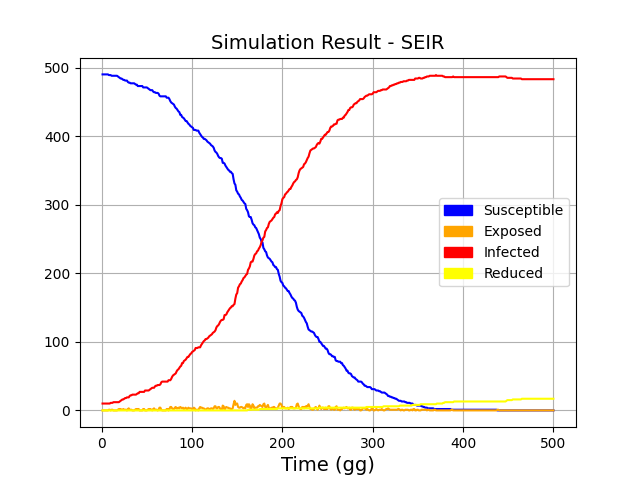
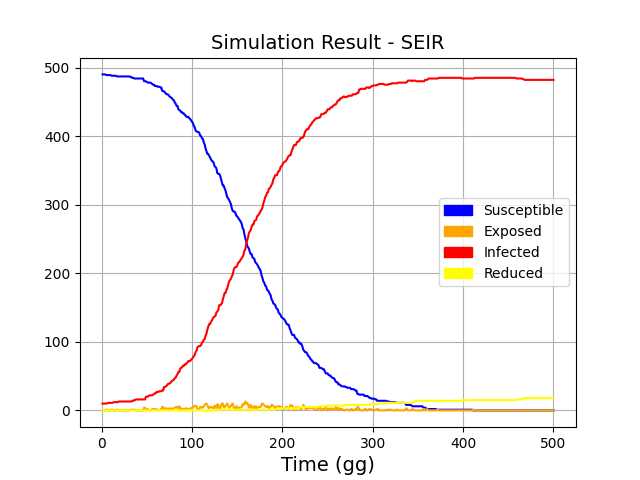
Correzione Errore "Transizione" Simulatore
- Se un nodo passa da S ad I deve poter contagiare i vicini solo allo step successivo della simulazione, non nell'iterazione corrente (ho modificato un controllo)

Changed region(s): [[0.1875, 0.1562, 0.8438, 0.875], [0.1875, 0.1562, 0.3125, 0.2812]]

diff --git a/main.py b/main.py
@@ -412,8 +412,8 @@ def sim_SIR(graph, start_t, end_t):
             else:
                 i_list[index][1] -= 1
 
-        for elem in i_list:
-            ngbs = graph.neighbors(elem[0])
+        for index in range(0, len(i_list)):
+            ngbs = graph.neighbors(i_list[index][0])
             for ngb in ngbs:
                 if ngb in s_list:
                     r = random.uniform(0.0, 1.0)
@@ -461,9 +461,8 @@ def sim_SEIR(graph, start_t, end_t):
             else:
                 e_list[index][1] -= 1
         # print("Dopo: " + str(e_list))
-        for elem in i_list:
-            # if elem[0] in part:
-            ngbs = graph.neighbors(elem[0])
+        for index in range(0, len(i_list)):
+            ngbs = graph.neighbors(i_list[index][0])
             for ngb in ngbs:
                 if ngb in s_list:
                     r = random.uniform(0.0, 1.0)
@@ -808,7 +807,7 @@ if __name__ == '__main__':
         i_t = [9, 9, 9]
         r_t = [10, 1, 1]
         fm.write_csv(s_t, e_t, i_t, r_t, 3)
-        [a,b,c,d] = fm.calculate_average_from_csv()
+        [a, b, c, d] = fm.calculate_average_from_csv()
         fm.clear_csv()
         # print(a)
         # print(b)
